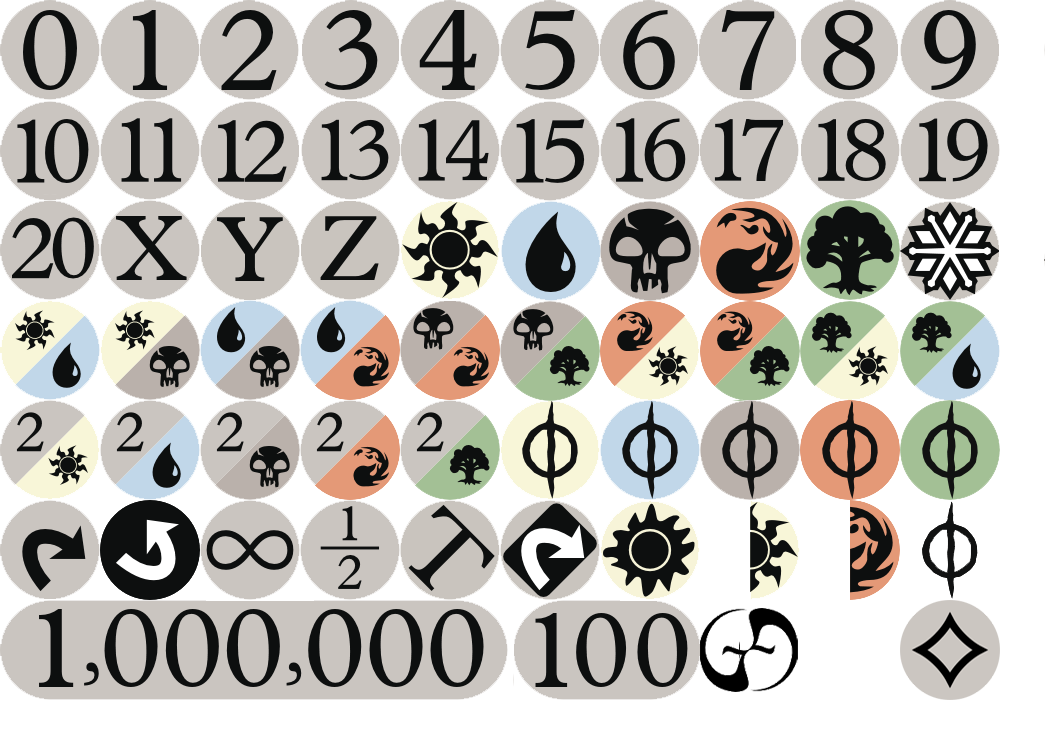
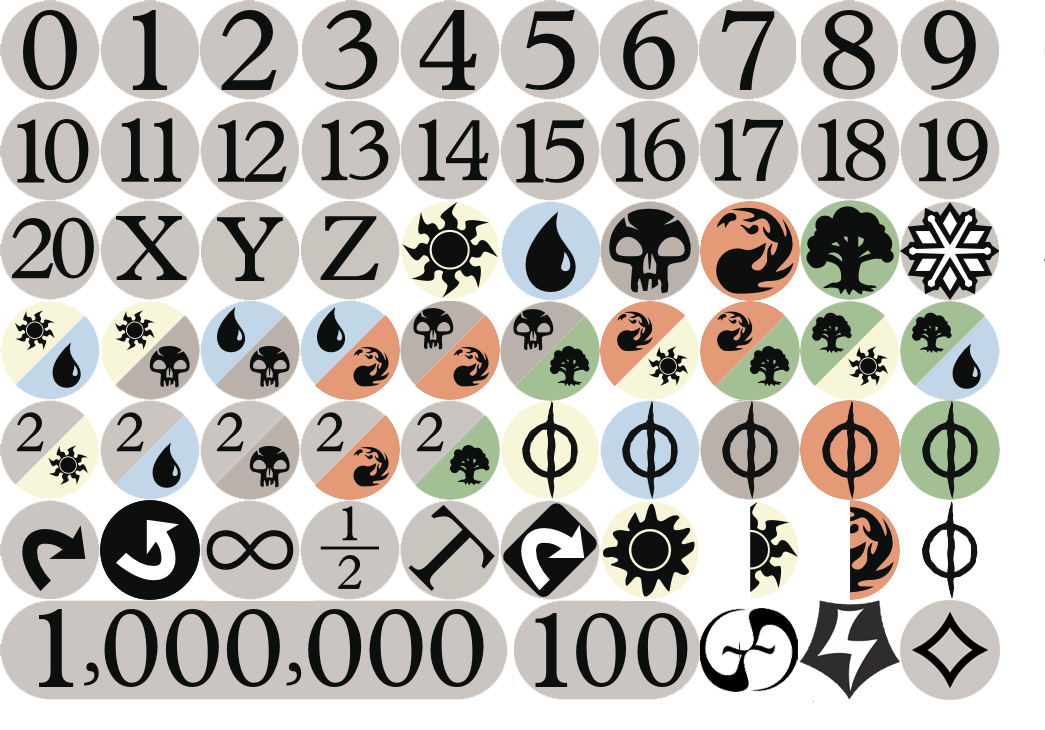
preparation of {E} symbol for Kaladesh

Changed region(s): [[0.7656, 0.8137, 0.8574, 0.9644]]

diff --git a/src/org/magic/api/analyzer/CardAnalyser.java b/src/org/magic/api/analyzer/CardAnalyser.java
@@ -18,7 +18,7 @@ public class CardAnalyser {
 		emblem.setWatermarks("");
 		emblem.setLayout(MagicCard.LAYOUT.Emblem.toString());
 		emblem.setNumber("E");
-		emblem.setRarity("Common");
+		//emblem.setRarity("Common");
 		emblem.setCmc(0);
 		emblem.getTypes().add("Emblem");
 		emblem.getSubtypes().add(mc.getName());
@@ -107,7 +107,7 @@ public class CardAnalyser {
 				
 				
 				token.setNumber("T");
-				token.setRarity("Common");
+				//token.setRarity("Common");
 				token.setCmc(0);
 				
 				for(String c : token.getColors())

diff --git a/src/org/magic/gui/components/ManaPanel.java b/src/org/magic/gui/components/ManaPanel.java
@@ -156,6 +156,7 @@ public class ManaPanel extends JPanel {
 			case "\u221e" : val=52;break;//infinity symbol
 			case "\u00BD" : val=53;break;//1/2 symbol
 			case "CHAOS" : val=67;break; 
+			case "E" : val=68;break;
 			default:val=0;
 			}
 		}

diff --git a/src/org/magic/api/exports/impl/MTGDesktopCompanionExport.java b/src/org/magic/api/exports/impl/MTGDesktopCompanionExport.java
@@ -45,7 +45,6 @@ public class MTGDesktopCompanionExport extends AbstractCardExport  {
 		T bean = (T)oos.readObject();
 		oos.close();
 		return bean;
-		/*return new Gson().fromJson(new FileReader(f), class1);*/
 	}
 
 	@Override
